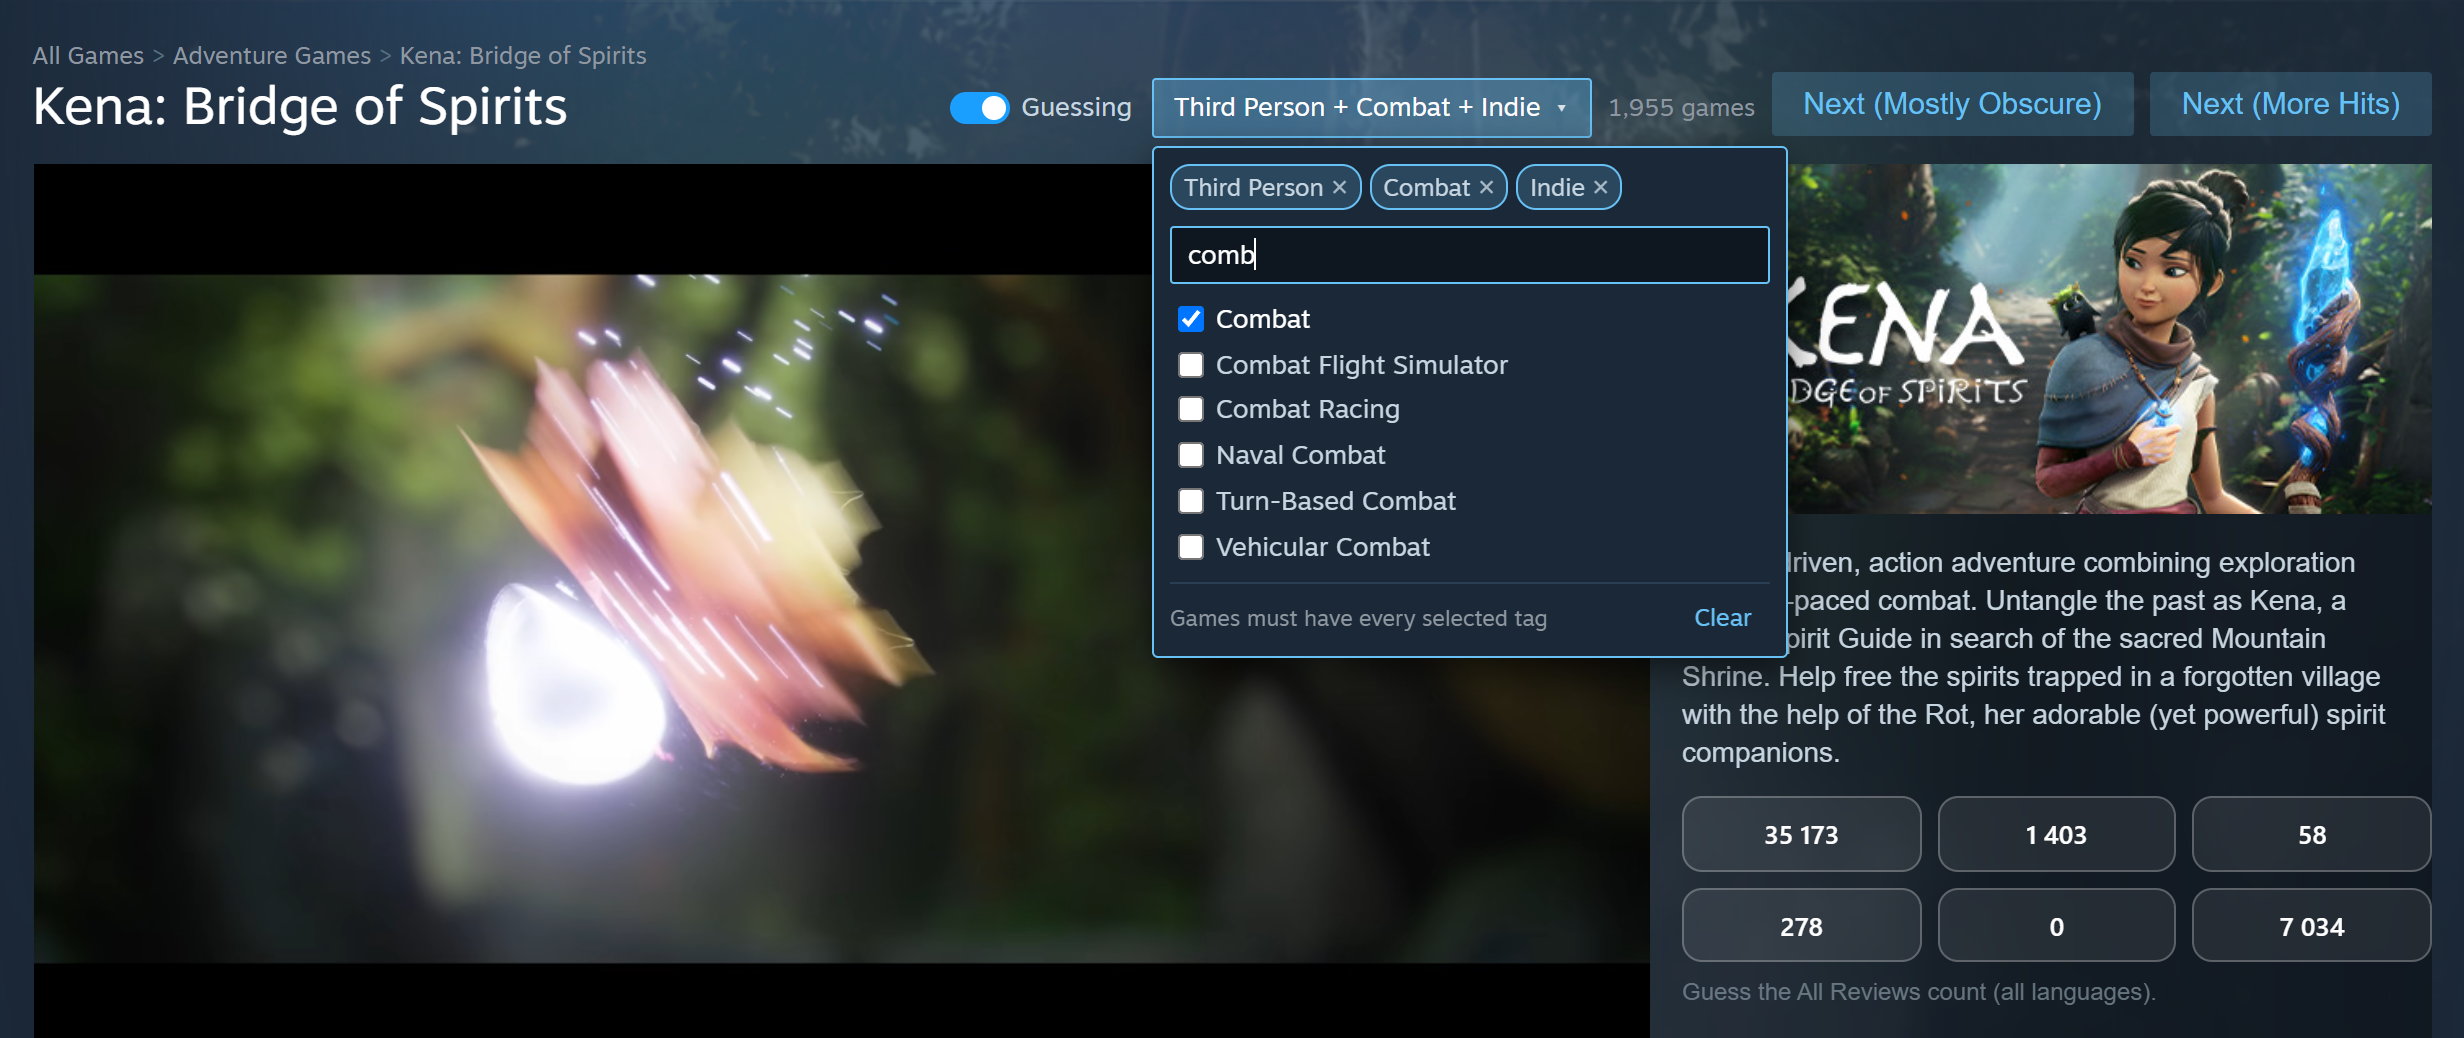
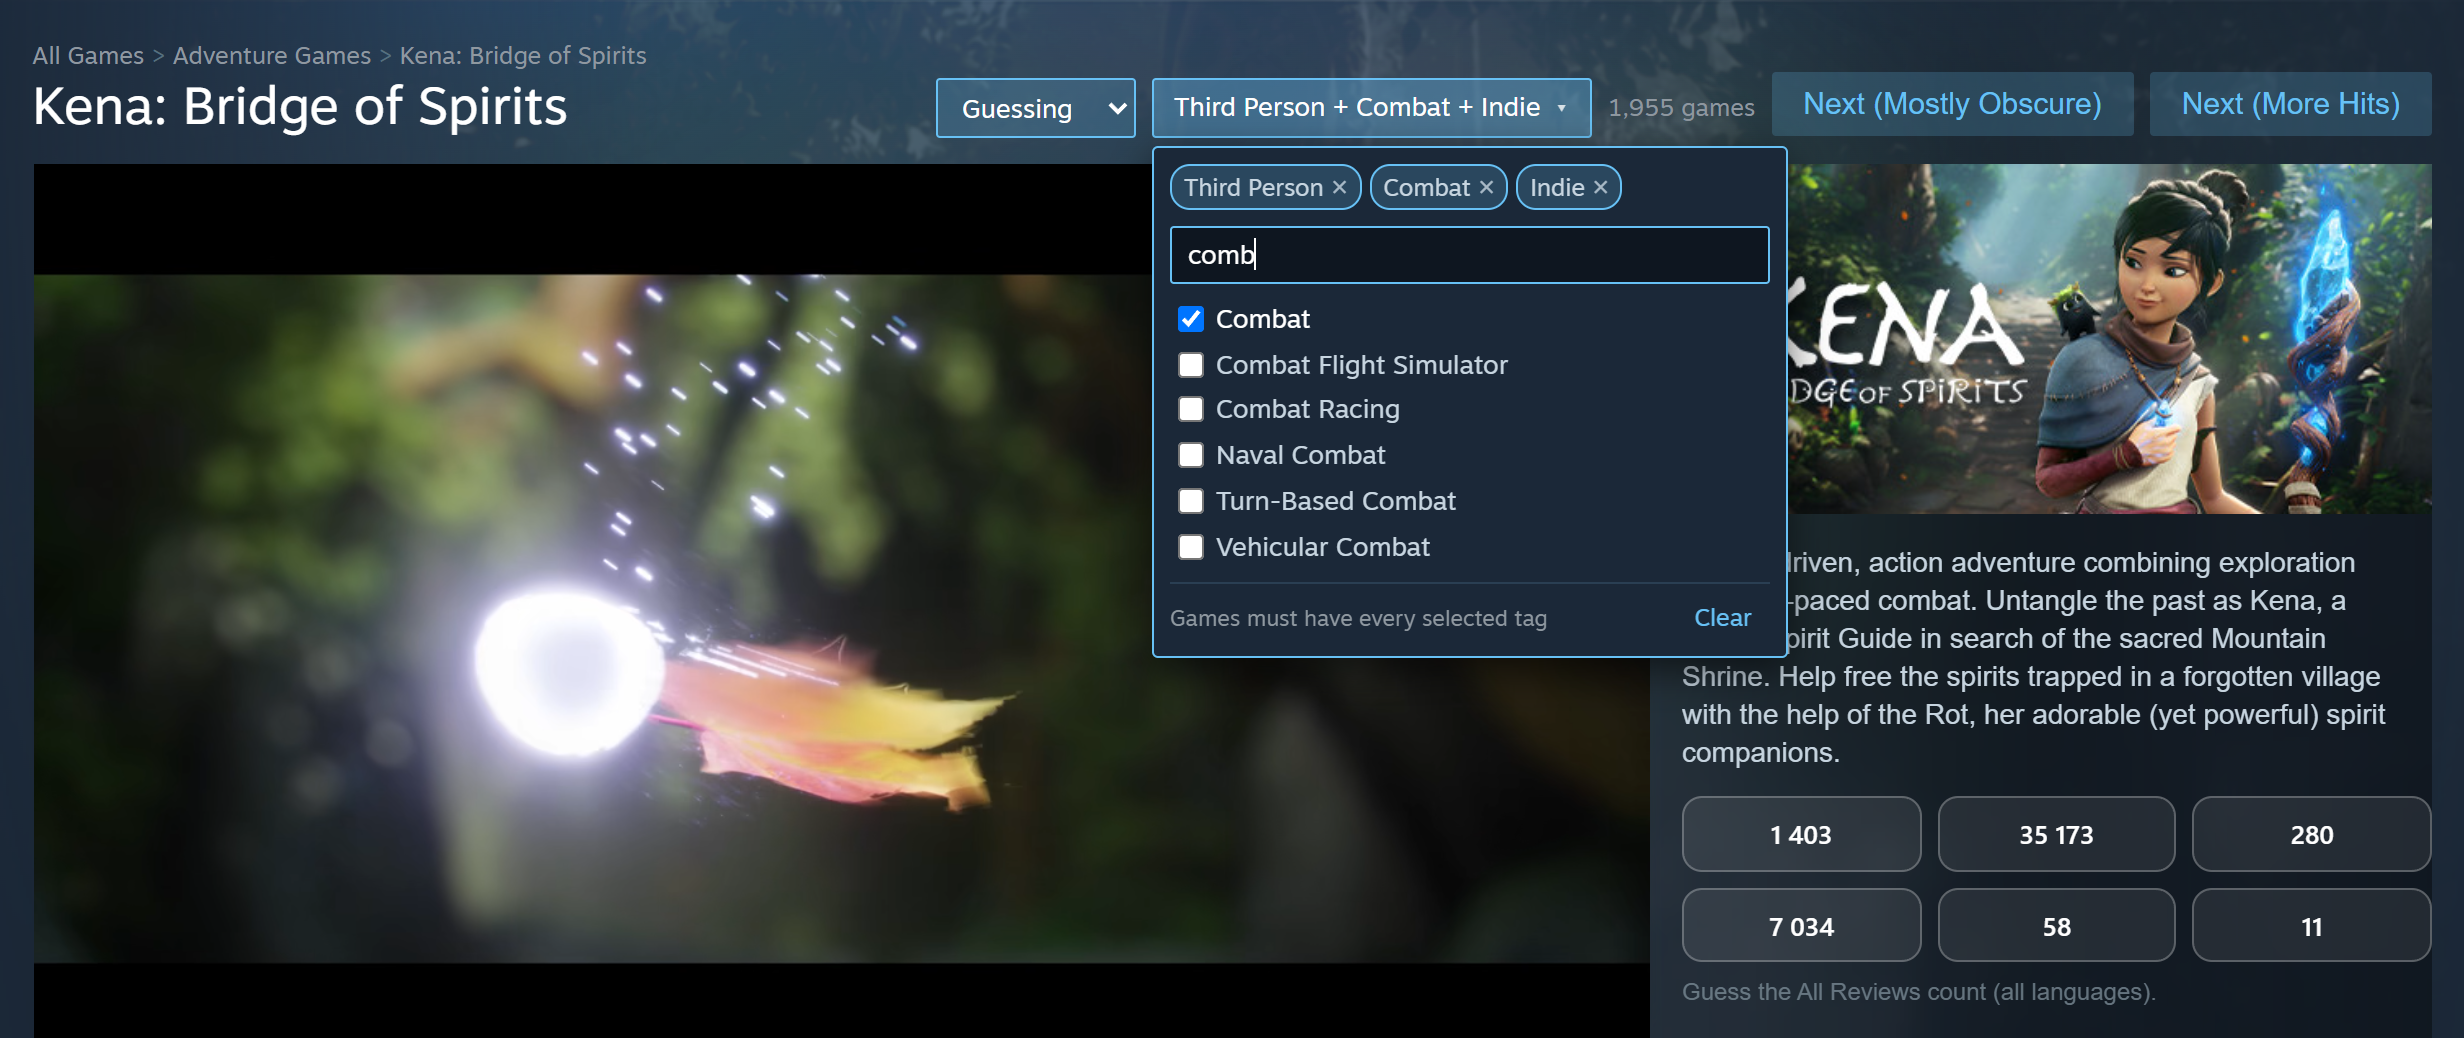
Replace the Guessing switch with a 3-mode dropdown
Guessing / No guessing / Guessing + review comments.

The comments mode keeps the game but lets you read what players wrote:
of Steam's review section, only the part holding the comments is shown;
score summary, histograms, filters and "Showing N reviews" stay hidden.
Untagged parts stay invisible but laid out, because Steam only
lazy-loads the comments once their empty container scrolls into view,
and nothing is shown before it's recognised, so a markup change can only
hide comments, never leak totals.

- Mode applied at document_start, remembered, synced across tabs;
  the old switch's saved "off" migrates to No guessing
- Dropdown sized to the selected option (Steam stretches selects)
- README: modes table and new screenshots (TagFilter, ReviewComments,
  NoGuessing replaces GuessingOff)

diff --git a/src/guesserMode.js b/src/guesserMode.js
@@ -1,0 +1,148 @@
+(function (root) {
+  const ns = (root.ReviewGuesser = root.ReviewGuesser || {});
+
+  // How the page is treated:
+  //   "guess"    – spoilers hidden, guess buttons shown (the classic mode)
+  //   "off"      – the normal Steam page; Next buttons and tag picker stay
+  //   "comments" – like "guess", but the review comments are readable;
+  //                only the totals/scores/histograms around them stay hidden
+  //
+  // Loaded before the other scripts at document_start: the html classes are
+  // set before Steam renders, so content.css never flashes spoilers or keeps
+  // them hidden by mistake.
+
+  const MODES = [
+    { value: "guess", label: "Guessing" },
+    { value: "off", label: "No guessing" },
+    { value: "comments", label: "Guessing + review comments" },
+  ];
+  const STORAGE_KEY = "ext-guesser-mode";
+  const LEGACY_ENABLED_KEY = "ext-guesser-enabled"; // the old on/off switch
+  const CHANGE_EVENT = "ext:guesserchange";
+
+  function readMode() {
+    try {
+      const saved = localStorage.getItem(STORAGE_KEY);
+      if (MODES.some((m) => m.value === saved)) return saved;
+      if (localStorage.getItem(LEGACY_ENABLED_KEY) === "0") return "off";
+    } catch (err) {
+      // storage blocked – default below
+    }
+    return "guess";
+  }
+
+  let mode = readMode();
+
+  function apply() {
+    const cl = document.documentElement.classList;
+    cl.toggle("ext-guesser-off", mode === "off");
+    cl.toggle("ext-guesser-comments", mode === "comments");
+    document
+      .querySelectorAll(".ext-mode-select")
+      .forEach((sel) => (sel.value = mode));
+  }
+
+  function setMode(next) {
+    if (next === mode) return;
+    mode = next;
+    try {
+      localStorage.setItem(STORAGE_KEY, next);
+      localStorage.removeItem(LEGACY_ENABLED_KEY);
+    } catch (err) {
+      console.warn("[ext] failed to save guessing mode", err);
+    }
+    apply();
+    window.dispatchEvent(new Event(CHANGE_EVENT));
+  }
+
+  // Keep other open Steam tabs in sync
+  window.addEventListener("storage", (e) => {
+    if (e.key !== STORAGE_KEY) return;
+    const next = readMode();
+    if (next === mode) return;
+    mode = next;
+    apply();
+    window.dispatchEvent(new Event(CHANGE_EVENT));
+  });
+
+  // ---------------------------------------------------------------------------
+  // "Guessing + review comments": sort the parts of Steam's review section.
+  //   - the part holding the comments  -> .ext-review-comments (shown)
+  //   - any other part that has text   -> .ext-review-meta (collapsed: score
+  //     summary, histograms, filters, "Showing N reviews")
+  //   - not sorted yet                 -> invisible but laid out (content.css)
+  // Untagged parts must keep their layout: Steam only loads the comments
+  // once their (still empty) container scrolls into view. Nothing is shown
+  // before it's recognised, so a markup change can only hide comments, never
+  // leak counts. Steam's class names are generated, hence the text test.
+  // ---------------------------------------------------------------------------
+
+  const COMMENTS_RX = /Most Helpful Reviews|Recently Posted|Was this review helpful/i;
+
+  function markReviewComments() {
+    const sectionRoot = document.querySelector(
+      '[data-featuretarget="appreviews"] > div'
+    );
+    if (!sectionRoot) return;
+    for (const part of sectionRoot.children) {
+      const text = part.textContent || "";
+      const isComments = COMMENTS_RX.test(text);
+      part.classList.toggle("ext-review-comments", isComments);
+      part.classList.toggle("ext-review-meta", !isComments && !!text.trim());
+    }
+  }
+
+  /**
+   * The header dropdown.
+   *
+   * @returns {HTMLSelectElement}
+   */
+  function makeGuesserModeSelect() {
+    const select = document.createElement("select");
+    select.className = "ext-mode-select";
+    select.title =
+      "Guessing: reviews and other clues hidden.\n" +
+      "No guessing: the normal Steam page.\n" +
+      "Guessing + review comments: guess, but read what players wrote " +
+      "(totals and scores stay hidden).\n" +
+      "Remembered until you change it.";
+
+    for (const m of MODES) {
+      const opt = document.createElement("option");
+      opt.value = m.value;
+      opt.textContent = m.label;
+      select.appendChild(opt);
+    }
+    select.value = mode;
+    select.addEventListener("change", () => {
+      setMode(select.value);
+      fitSelectToChoice(select);
+    });
+    // A select is as wide as its longest option; size it to the chosen one
+    requestAnimationFrame(() => fitSelectToChoice(select));
+    return select;
+  }
+
+  let measureCtx = null;
+  function fitSelectToChoice(select) {
+    if (!select.isConnected) return;
+    const cs = getComputedStyle(select);
+    measureCtx = measureCtx || document.createElement("canvas").getContext("2d");
+    measureCtx.font = `${cs.fontSize} ${cs.fontFamily}`;
+    const text = select.options[select.selectedIndex]?.textContent || "";
+    const chrome = parseFloat(cs.paddingLeft) + parseFloat(cs.paddingRight) + 28; // borders + arrow
+    select.style.setProperty(
+      "width",
+      Math.ceil(measureCtx.measureText(text).width + chrome) + "px",
+      "important"
+    );
+  }
+
+  apply();
+
+  ns.getGuesserMode = () => mode;
+  ns.isGuesserEnabled = () => mode !== "off";
+  ns.GUESSER_CHANGE_EVENT = CHANGE_EVENT;
+  ns.markReviewComments = markReviewComments;
+  ns.makeGuesserModeSelect = makeGuesserModeSelect;
+})(window);

diff --git a/content.css b/content.css
@@ -1,5 +1,8 @@
-/* All spoiler hiding is scoped to html:not(.ext-guesser-off), so the
-   "Guessing" switch (src/guesserToggle.js) reveals the normal page instantly */
+/* Spoiler hiding is scoped by the mode classes on <html> that
+   src/guesserMode.js sets at document_start:
+     (none)                 Guessing
+     .ext-guesser-off       No guessing (normal page)
+     .ext-guesser-comments  Guessing + review comments */
 
 /* If you use it elsewhere */
 html:not(.ext-guesser-off) .ext-hide { display: none !important; }
@@ -16,14 +19,29 @@ html:not(.ext-guesser-off) :is(
   .apphub_ReviewsHeader,
   .user_reviews_filter_section,
   .viewer_bar,
-  .review_ctn,
   .app_reviews_count,
   .review_summary_count
 ) {
   visibility: hidden !important;
 }
 
-/* Guessing off: no guess widget */
+/* The whole review section (comments included) in Guessing mode */
+html:not(.ext-guesser-off):not(.ext-guesser-comments) .review_ctn {
+  visibility: hidden !important;
+}
+
+/* Guessing + review comments: of the review section's parts, only the one
+   guesserMode.js tagged as the comments is shown. Untagged parts stay
+   invisible but laid out (Steam lazy-loads the comments into one of them);
+   parts tagged as summary/histograms/filters/"Showing N" collapse. */
+html.ext-guesser-comments [data-featuretarget="appreviews"] > div > :not(.ext-review-comments) {
+  visibility: hidden !important;
+}
+html.ext-guesser-comments [data-featuretarget="appreviews"] > div > .ext-review-meta {
+  display: none !important;
+}
+
+/* No guessing: no guess widget */
 html.ext-guesser-off .ext-steam-guess { display: none !important; }
 
 /* Our widget should always be visible (we never hide it via visibility) */
@@ -247,54 +265,24 @@ html:not(.ext-guesser-off) .ext-mask-reviews > *:not(.ext-steam-guess) {
 .ext-tag-clear:hover:not(:disabled) { border-color: #67c1f5; }
 .ext-tag-clear:disabled { color: #4b5b6b; cursor: default; }
 
-/* "Guessing" on/off switch */
-.ext-guesser-toggle {
-  display: inline-flex;
-  align-items: center;
-  gap: 6px;
+/* Guessing mode dropdown */
+.ext-mode-select {
+  /* Steam stretches selects in the header; keep it content-sized */
+  display: inline-block !important;
+  width: auto !important;
+  max-width: 260px;
   height: 30px;
-  margin-right: 10px;
+  margin-right: 8px;
+  padding: 0 8px;
   vertical-align: middle;
+  background: rgba(103, 193, 245, 0.2);
+  color: #fff;
+  border: 1px solid #67c1f5;
+  border-radius: 2px;
   font: 13px/1.3 "Motiva Sans", Arial, sans-serif;
-  color: #c7d5e0;
+  outline: none;
   cursor: pointer;
-  user-select: none;
 }
-.ext-guesser-toggle:hover { color: #fff; }
-
-.ext-guesser-toggle input {
-  position: absolute;
-  opacity: 0;
-  width: 0;
-  height: 0;
-}
-
-.ext-switch {
-  position: relative;
-  flex: none;
-  width: 30px;
-  height: 16px;
-  border-radius: 8px;
-  background: #56687a;
-  transition: background .15s ease;
-}
-.ext-switch::after {
-  content: "";
-  position: absolute;
-  top: 2px;
-  left: 2px;
-  width: 12px;
-  height: 12px;
-  border-radius: 50%;
-  background: #c7d5e0;
-  transition: transform .15s ease, background .15s ease;
-}
-.ext-guesser-toggle input:checked + .ext-switch { background: #1a9fff; }
-.ext-guesser-toggle input:checked + .ext-switch::after {
-  transform: translateX(14px);
-  background: #fff;
-}
-.ext-guesser-toggle input:focus-visible + .ext-switch {
-  outline: 2px solid #67c1f5;
-  outline-offset: 2px;
-}
+.ext-mode-select:hover { background: rgba(103, 193, 245, 0.35); }
+.ext-mode-select:focus-visible { outline: 2px solid #67c1f5; outline-offset: 2px; }
+.ext-mode-select option { background: #1b2838; color: #fff; }

diff --git a/src/nextGame.js b/src/nextGame.js
@@ -623,7 +623,7 @@
         const smartBtn = makeNextGameButton("smart");
 
         // Let Steam's layout handle positioning; just drop them in order
-        if (ns.makeGuesserToggle) container.appendChild(ns.makeGuesserToggle());
+        if (ns.makeGuesserModeSelect) container.appendChild(ns.makeGuesserModeSelect());
         container.appendChild(makeTagPicker());
         container.appendChild(pureBtn);
         container.appendChild(smartBtn);

diff --git a/src/main.js b/src/main.js
@@ -21,6 +21,9 @@
     if (guessing) {
       ns.injectSteamGuessingGame && ns.injectSteamGuessingGame();
     }
+    if (ns.getGuesserMode && ns.getGuesserMode() === "comments") {
+      ns.markReviewComments();
+    }
   }
 
   // Initial run

diff --git a/README.md b/README.md
@@ -8,7 +8,7 @@
 
 **Added here**
 - **Multi-tag filter.** A searchable tag picker next to the Next buttons. Pick as many tags as you like (e.g. Third Person + Combat + Indie) and both Next buttons only send you to games that have all of them. See [Tag Filter](#tag-filter) for a screenshot and details.
-- **Guessing on/off switch.** A **Guessing** switch in the page header. Turn it off to see the page normally (reviews and comments, publisher, curators, ...), turn it back on to hide them and get the guess buttons. No more going to `chrome://extensions` to read reviews. See [Guessing Switch](#guessing-switch).
+- **Guessing modes.** A dropdown in the page header: **Guessing** (the classic game), **Guessing + review comments** (guess, but read what players wrote; totals and scores stay hidden), or **No guessing** (the normal Steam page). No more going to `chrome://extensions` to read reviews. See [Guessing Modes](#guessing-modes).
 - **Clearer button names.** "Next (Raw)" is now **Next (Mostly Obscure)** and "Next (Balanced)" is now **Next (More Hits)**, each with a tooltip saying how it picks. See [Random Game Navigation](#random-game-navigation).
 - **Fixed: Steam pages freezing.** Some pages, especially ones still loading or pre-purchase games with no reviews yet, hung with Chrome's "Page unresponsive" dialog. The extension's review-count watcher was triggering itself in an endless loop. It now checks at most every 100 ms, and only one check runs per page.
 
@@ -55,24 +55,38 @@ Jonas Review Guesser is a Chrome extension that turns Steam into a review guessi
 - Your selection is remembered. With no tags selected the buttons work exactly as before. If you used rsdal's single-tag dropdown, your tag carries over.
 - Tag-filtered picks come from Steam's live search, so they include brand-new releases that aren't in the bundled appID lists.
 
-### Guessing Switch
+### Guessing Modes
 
-![Guessing switched off: reviews, developer and publisher visible again](images/GuessingOff.png)
+The dropdown at the start of the header row (before the tag picker) picks how the page is shown:
 
-- The **Guessing** switch sits at the start of the header row, before the tag picker.
-- **Off:** the page looks like normal Steam: review summaries, the review comments, publisher, curators, awards, etc. The guess buttons disappear. Next buttons and the tag picker keep working.
-- **On:** everything is hidden again and the guess buttons appear, even mid-page.
-- The setting is remembered (it applies before the page draws, so nothing flashes) and other open Steam tabs follow it. Remember to turn it back on before you hit Next, or the next game's reviews will be visible.
+| Mode | Guess buttons | Review scores & totals | Review comments | Publisher, curators, awards, ... |
+|---|---|---|---|---|
+| **Guessing** | ✔ | hidden | hidden | hidden |
+| **Guessing + review comments** | ✔ | hidden | **shown** | hidden |
+| **No guessing** | – | shown | shown | shown |
+
+- **Guessing + review comments** lets you read what players wrote before you guess. Only the comments show; the score summary, histograms, filters and "Showing N reviews" stay hidden. *(Each review still shows its own "N people found this helpful".)*
+- **No guessing** is the normal Steam page. The Next buttons and tag picker keep working.
+- The mode is remembered (it applies before the page draws, so nothing flashes) and other open Steam tabs follow it. Switching mid-page takes effect right away. If you leave it on **No guessing**, the next game's reviews will be visible too.
+
+**Guessing + review comments**
+
+![Guessing + review comments: the Most Helpful reviews are readable, totals hidden](images/ReviewComments.png)
+
+**No guessing**
+
+![No guessing: review scores, developer and publisher visible](images/NoGuessing.png)
 
 ## Limitations
 
 It is a very simple application with many limitations:
 - **Bug: ** Current version only works when your Steam is set to English.
-- Somewhat hinders your normal Steam browsing experience. *(This fork: flip the **Guessing** switch off instead of disabling the extension.)*
+- Somewhat hinders your normal Steam browsing experience. *(This fork: pick **No guessing** in the header dropdown instead of disabling the extension.)*
 - The database of appIDs is not automatically updated so the newer titles might not be included.
 - Sometimes the extension brings you to a Steam page that is not or no longer available in your region.
 - Lacking a lot of features that might be cool e.g. entering the guess into a text field, etc. etc.
 - Tag filter: Steam's search matches tags beyond the ~20 a store page displays, so now and then a game won't *show* one of your selected tags even though Steam has it tagged that way.
+- Guessing + review comments finds the comments by Steam's English headings ("Most Helpful Reviews", "Recently Posted"). If Steam changes its review layout, the comments just stay hidden; totals never leak.
 - Tag filter: tags can only be combined as "must have all". There's no "any of these" or "exclude this tag" yet.
 
 It is not my plan to work on this too much more so if you'd like to see these limitations resolved, fork it and do it yourself! I'd be happy to try out your version. :)
@@ -113,7 +127,7 @@ It is not my plan to work on this too much more so if you'd like to see these li
   - Check if:
     - Review counts are replaced with guess buttons.
     - The **Next (Mostly Obscure)** and **Next (More Hits)** buttons appear at the top of the page.
-    - The **Guessing** switch and the tag button (**Any tag** until you pick some) appear next to them.
+    - The **Guessing** dropdown and the tag button (**Any tag** until you pick some) appear next to them.
 
 ---
 
